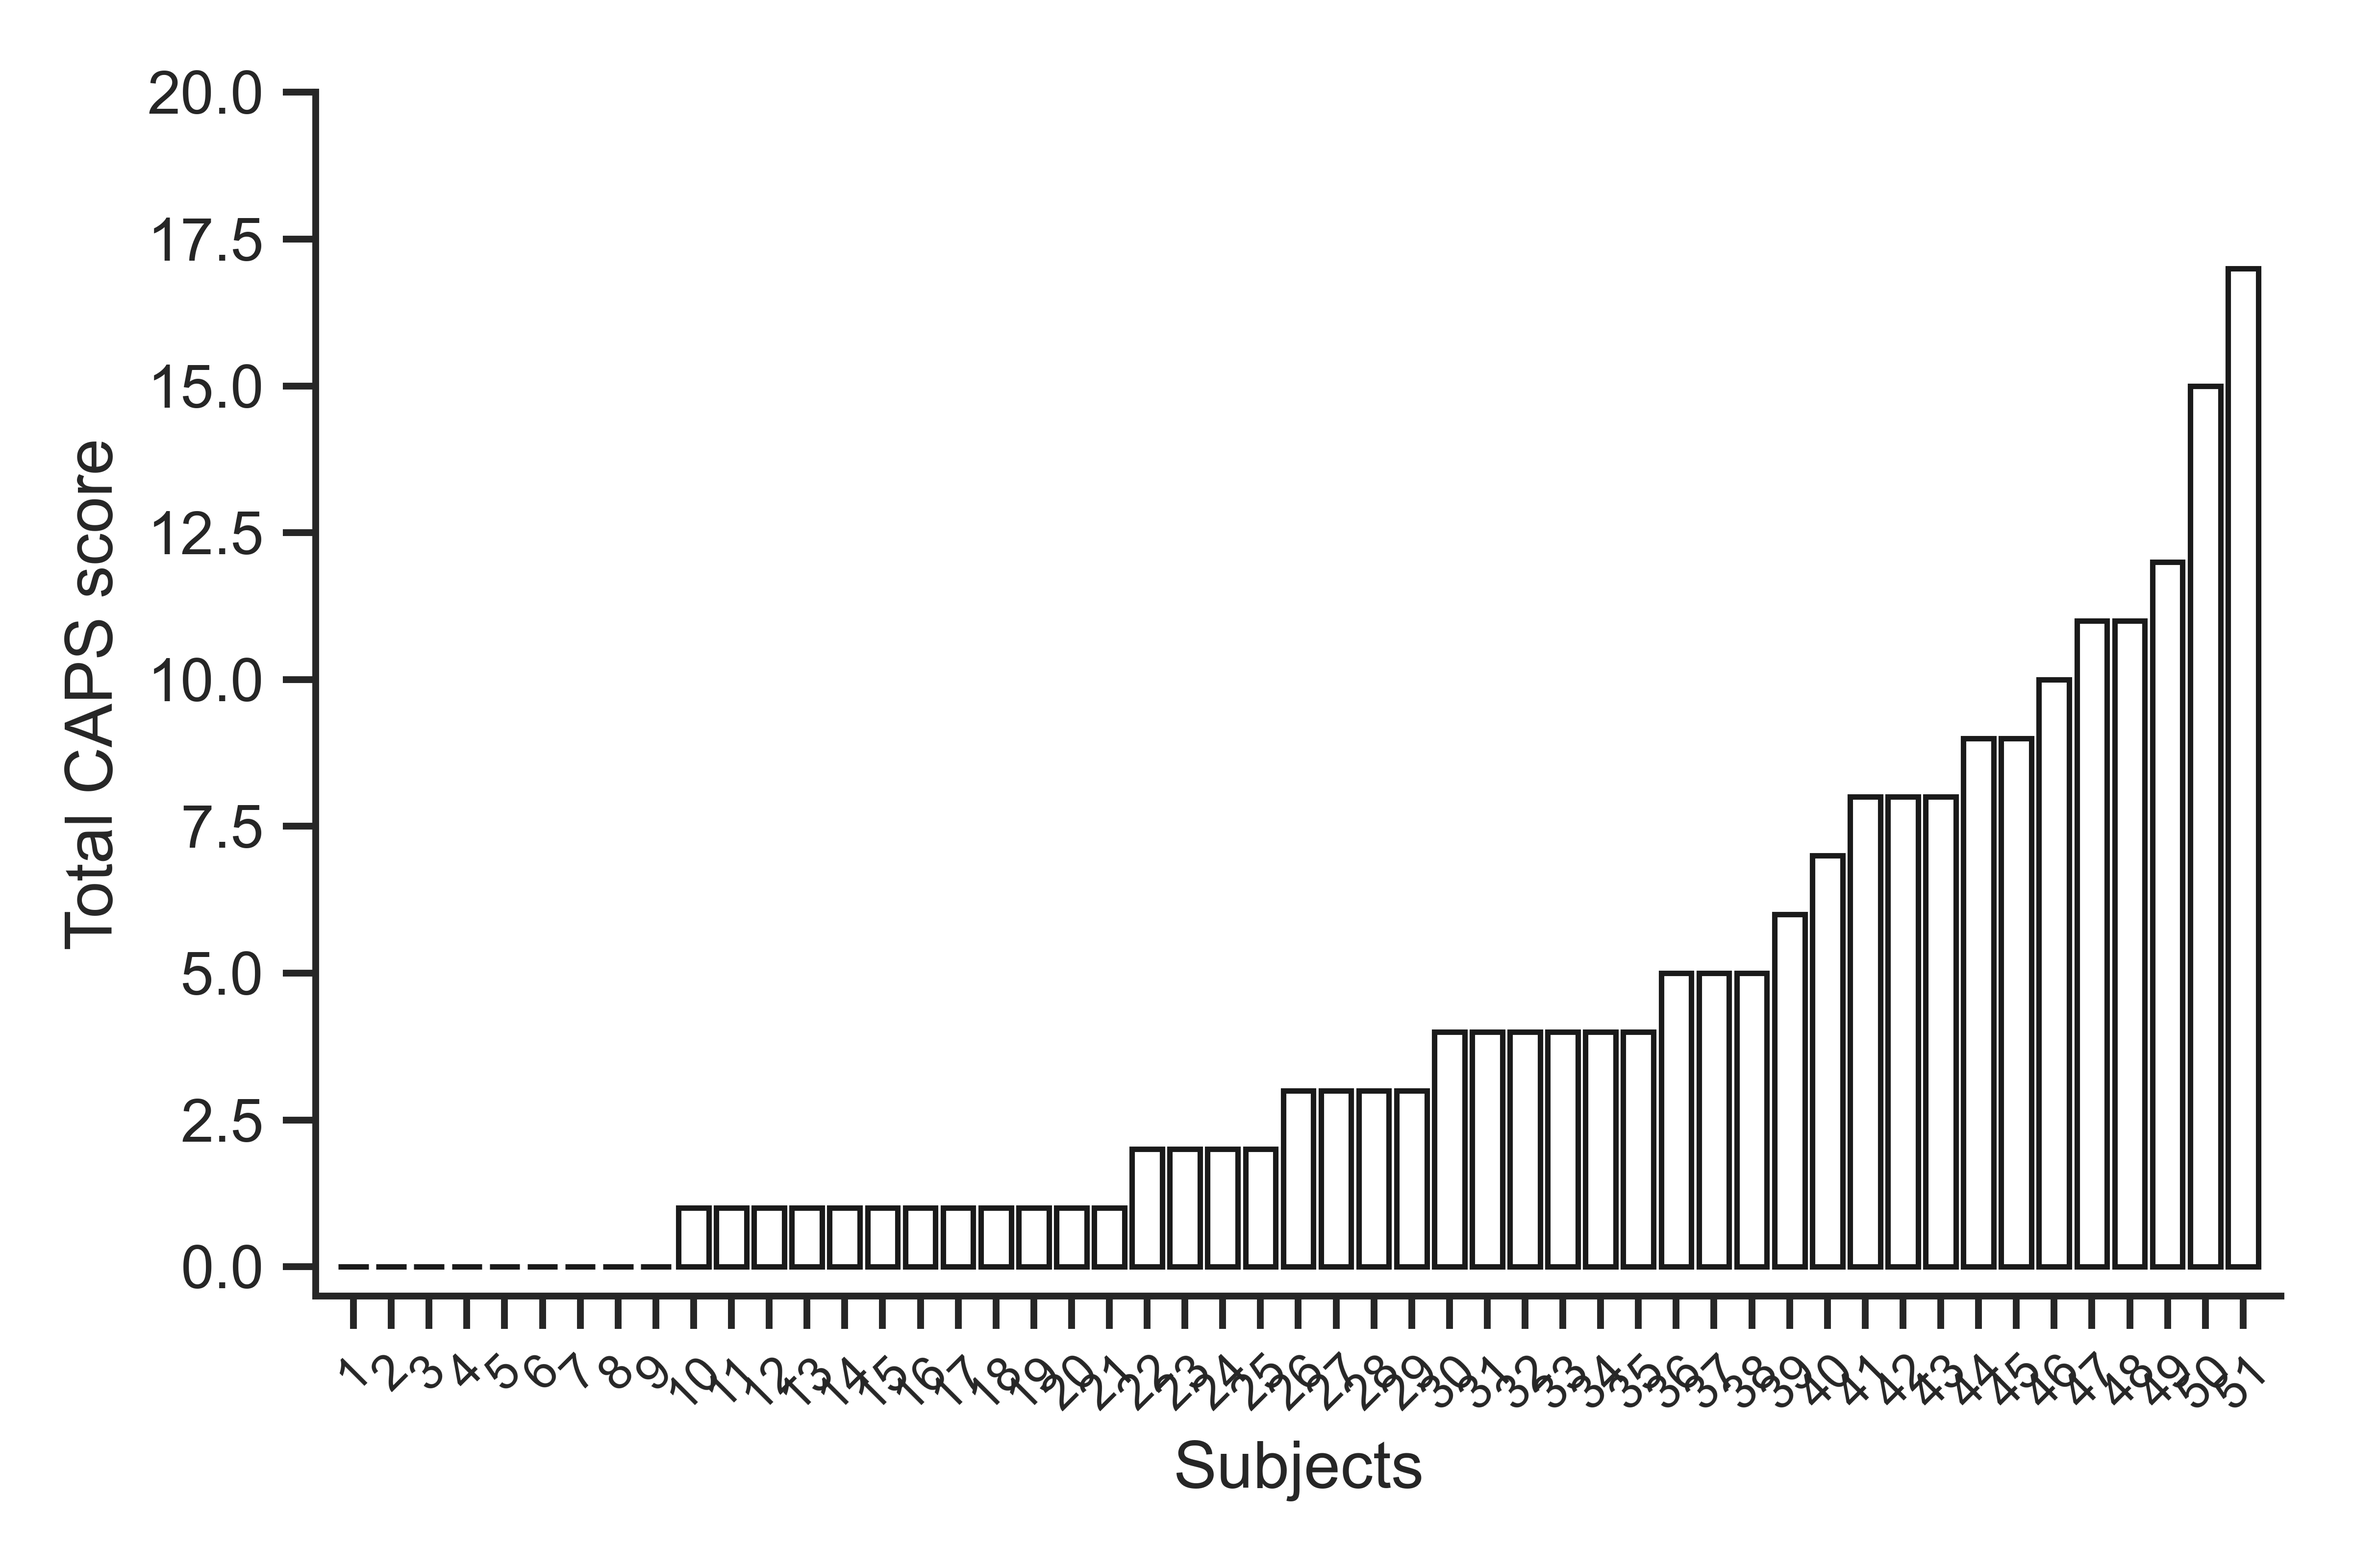
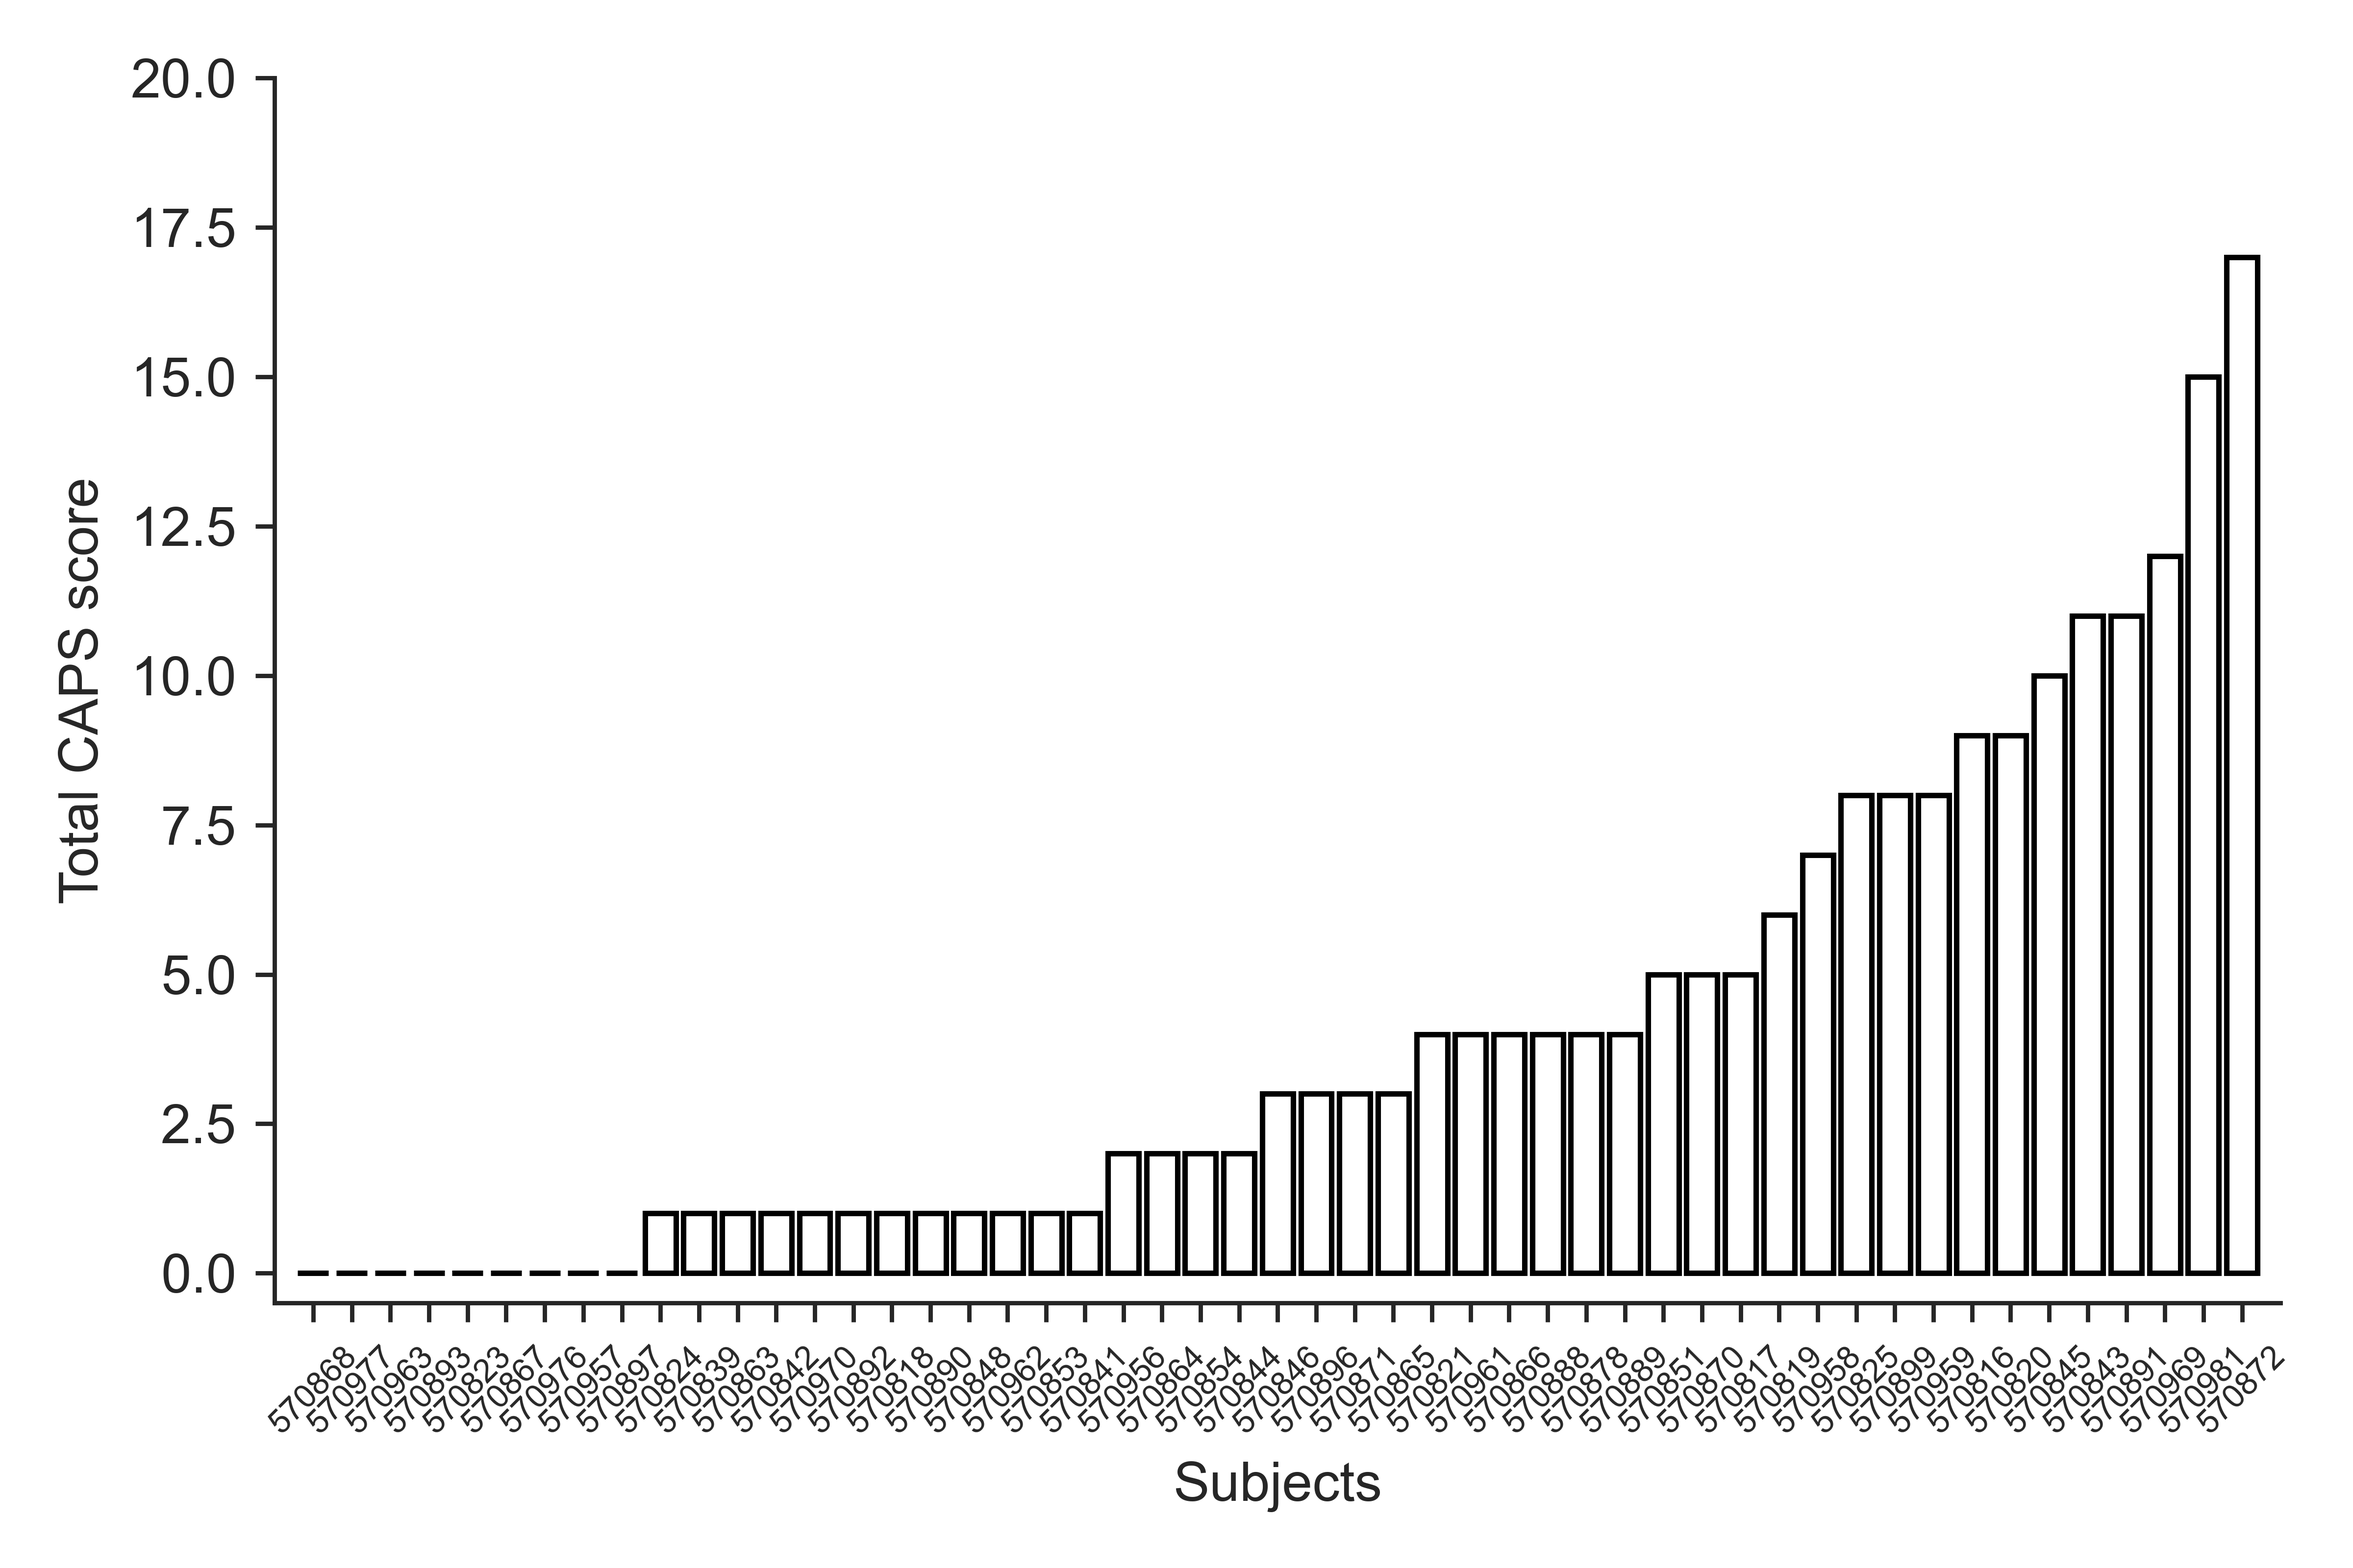
sorted data for visualizatio

diff --git a/realness plots.py b/realness plots.py
@@ -34,15 +34,46 @@ plt.ylabel('Mean realness [A.U.]')
 plt.savefig(f'Res/average over trials.png')
 
 #inidivdual-level analysis - realness scores
-plt.clf()
 df_plot = df.loc[:, subjects]
-labels = df['image'].to_list()
+df_plot['image'] = df['image']
 
-df_bars = df_caps.sort_values(by=['Total_CAPS_Score'])
-sorted_ids = [str(i) for i in df_bars['participant_id'].to_list()]
+
+df_by_caps = df_caps.sort_values(by=['Total_CAPS_Score'])
+
+#inidivdual-level analysis - CAPS scores
+fig, ax = plt.subplots(1,1)
+x_t = np.arange(1, len(subjects)+1)
+ax.bar(x = x_t,height = df_by_caps['Total_CAPS_Score'], facecolor='none', edgecolor='k')
+ax.set_xlim(0, 52)
+ax.set_ylim(-0.5, 20)
+plt.xticks(x_t, df_by_caps['participant_id'], fontsize = 6, rotation=45)
+plt.xlabel('Subjects')
+plt.ylabel('Total CAPS score')
+sns.despine()
+plt.tight_layout()
+plt.savefig(f'Res/CAPS_sorted.png', dpi=800)
+
+
+df_sorted = pd.DataFrame()
+sorted_ids = [str(i) for i in df_by_caps['participant_id'].to_list()]
+sorted_ids.append('image')
 df_sorted = df_plot[sorted_ids].copy()
 
+df_sorted['avg_realness_image'] = df_sorted.iloc[:,:-1].mean(axis=1)
 
+plt.scatter(df_sorted['Visual_sim'], df_sorted['image'], facecolor='none', edgecolor='k', s=20)
+plt.ylim(-1, 95)
+plt.xlim(0.84, 1.0)
+plt.yticks(fontsize = 4)
+plt.ylabel('Stimuli')
+plt.xlabel('Visual similarity of pairs of animals [cosine]')
+sns.despine()
+plt.tight_layout()
+plt.savefig(f'Res/images_by_CLIP_sorted.png', dpi=800)
+
+
+df_sorted['Visual_sim'] = df['Visual Similarity']
+df_sorted = df_sorted.sort_values(by=['Visual_sim'],ascending=False)
 
 #adding the average realness report
 '''
@@ -51,9 +82,13 @@ df_plot.loc[len(df_plot.index)] = avg
 labels.append("Avg. realness")
 '''
 sns.set_style('ticks')
-ax = sns.heatmap(df_sorted, 
-                 cmap='coolwarm', yticklabels=labels, xticklabels=True)
-ax.tick_params(axis='both', which='major', width = 0.2,length=3, labelsize=3, labelbottom = False, bottom=False, top = False, labeltop=True)
+
+labels = df_sorted['image'].to_list()
+ax = sns.heatmap(df_sorted.iloc[:,:-3], 
+                 cmap='coolwarm', cbar_kws={'label': 'Realness score'},
+                 yticklabels=labels, xticklabels=True)
+ax.tick_params(axis='both', which='major', width = 0.2,length=3, labelsize=3)
+#labelbottom = False, bottom=False, top = False, labeltop=True
 plt.setp(ax.xaxis.get_majorticklabels(), rotation=45)
 
 plt.ylabel('Stimuli', fontsize = 10)
@@ -61,19 +96,7 @@ plt.xlabel('Subjects', fontsize = 8)
 plt.tight_layout()
 plt.savefig(f'Res/heatmap_sorted.png', dpi=800)
 
-#inidivdual-level analysis - CAPS scores
 
-fig, ax = plt.subplots(1,1)
-ax.bar(x = np.arange(1, len(subjects)+1),height = df_bars['Total_CAPS_Score'], facecolor='none', edgecolor='k')
-ax.xaxis.set_ticks(np.arange(1, len(subjects)+1))
-ax.set_xlim(0, 52)
-ax.set_ylim(-0.5, 20)
-plt.xticks(fontsize = 9, rotation=45)
-plt.xlabel('Subjects')
-plt.ylabel('Total CAPS score')
-sns.despine()
-plt.tight_layout()
-plt.savefig(f'Res/CAPS.png', dpi=800)
 
 #individual plots
 fig = plt.figure(figsize=[12,8])
